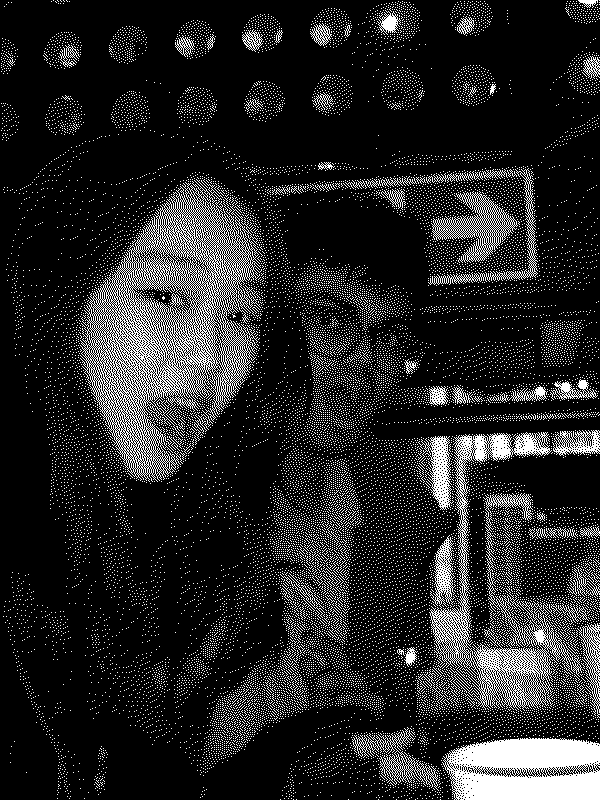
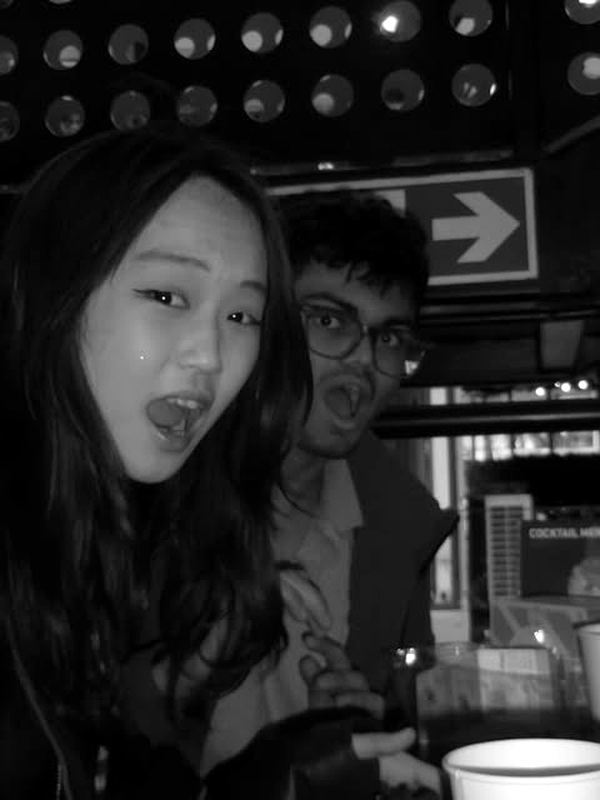
Update processor to smooth 8-bit grayscale for photo-quality screensavers

diff --git a/docs/index.html b/docs/index.html
@@ -15,7 +15,7 @@
         <h1>🖼 Kindle Instagram Frame Status</h1>
         <p>Target Account: <strong>@koel.jpg</strong> <span class="badge">Every 12 hrs</span></p>
         <p>Picture Rotation: <strong>30 minutes</strong></p>
-        <p>Last Sync: <strong>2026-10-23T13:20:27.650188+00:00</strong></p>
+        <p>Last Sync: <strong>2026-10-23T13:25:48.211429+00:00</strong></p>
     </div>
     <div class="card">
         <h2>Active Photos on Kindle (Current & Previous Post)</h2>

diff --git a/processor.py b/processor.py
@@ -3,11 +3,11 @@ from PIL import Image, ImageEnhance, ImageOps
 
 def process_image_for_kindle(input_path: str, output_path: str, target_width: int = 600, target_height: int = 800) -> str:
     """
-    Optimizes a photo specifically for Kindle 10th Gen Basic e-ink display (600x800):
-    1. Crops and scales (aspect-fill center crop) to fill the screen edge-to-edge (no white letterboxing).
-    2. Enhances contrast and edge sharpness for e-ink readability.
-    3. Auto-adjusts black/white cutoff levels.
-    4. Applies Floyd-Steinberg dithering for crisp 1-bit monochrome rendering.
+    Optimizes a photo for Kindle 10th Gen Basic e-ink screensaver:
+    1. Crops and scales (aspect-fill center crop) to fill 600x800 edge-to-edge.
+    2. Subtle contrast and sharpness tuning (avoids harsh grain / noise).
+    3. Outputs smooth 8-bit Grayscale (Mode 'L') so the Kindle's 16-shade e-ink
+       controller renders smooth photographic tones without 1-bit dithering noise.
     """
     with Image.open(input_path) as img:
         img = img.convert("RGB")
@@ -20,20 +20,19 @@ def process_image_for_kindle(input_path: str, output_path: str, target_width: in
             centering=(0.5, 0.5)
         )
 
-        # 2. Sharpening & Contrast Tuning for E-Ink
+        # 2. Gentle contrast punch suited for e-ink (without blowing out highlights)
         enhancer = ImageEnhance.Contrast(cropped)
-        boosted = enhancer.enhance(1.30)
+        boosted = enhancer.enhance(1.10)
 
+        # 3. Subtle sharpness for crisp edges (avoids creating speckle grain)
         sharpener = ImageEnhance.Sharpness(boosted)
-        crisp = sharpener.enhance(1.45)
+        crisp = sharpener.enhance(1.15)
 
-        # 3. Convert to grayscale and auto-stretch levels
+        # 4. Convert to smooth 8-bit Grayscale
         gray = crisp.convert("L")
-        gray = ImageOps.autocontrast(gray, cutoff=1)
+        gray = ImageOps.autocontrast(gray, cutoff=0.5)
 
-        # 4. Floyd-Steinberg Dithering
-        dithered = gray.convert("1", dither=Image.Dither.FLOYDSTEINBERG)
-
+        # Save as smooth 8-bit Grayscale PNG (NO 1-bit Floyd-Steinberg grain)
         os.makedirs(os.path.dirname(output_path), exist_ok=True)
-        dithered.save(output_path, "PNG", optimize=True)
+        gray.save(output_path, "PNG", optimize=True)
         return output_path
